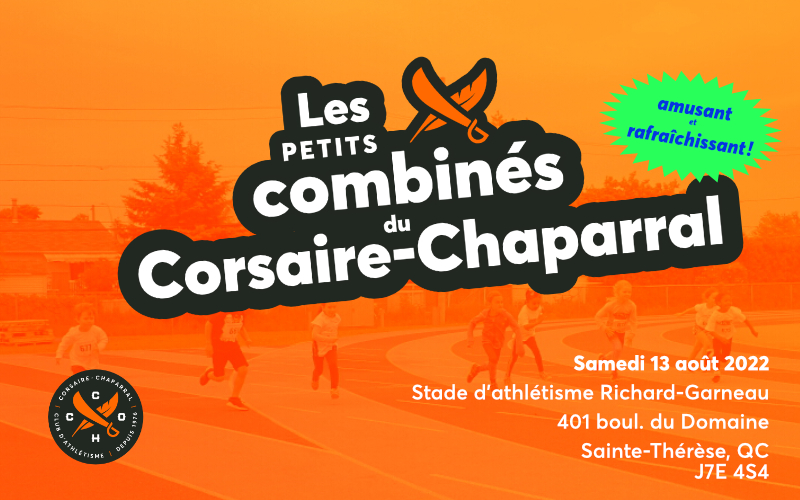
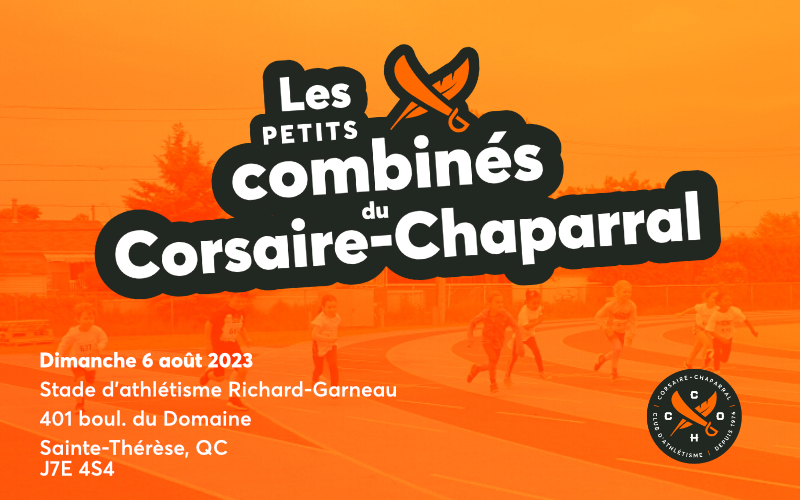
petits combinés 2023: màj (doc invitation venir)

Changed region(s): [[0.0938, 0.09, 0.9688, 0.66], [0.0312, 0.69, 0.9688, 0.96]]

diff --git a/content/competitions/petits-combines-corsaire-chaparral.md b/content/competitions/petits-combines-corsaire-chaparral.md
@@ -1,6 +1,6 @@
 ---
 title: "Les petits combinés Corsaire-Chaparral"
-date: 2022-08-13
+date: 2023-08-06
 images: 
 - /img/banniere-petits-combines.jpg
 
@@ -11,17 +11,16 @@ aliases:
 
 ## Informations générales
 
-- **Date** : samedi 13 août 2022
-- **Responsable de la rencontre** : [Michel Parent](mailto:michelparent2404@gmail.com)
+- **Date** : dimanche 6 août 2023
+- **Responsable de la rencontre** : [Carole Crevier](mailto:caro.cre@outlook.com)
 - **Directrice technique** : Madame [Nathalie Prince](mailto:nathalie.prince1@videotron.ca)
 - **Chronométrage et résultats** : [Louis-Olivier Brassard](mailto:louis@corsaire-chaparral.org)
-- **Bénévoles** : Lina Lalonde, Karine Beauséjour
-- **Communications** : Stéphanie Parent
+- **Bénévoles** : Karine Beauséjour
 - **Secrétariat** : Nancy Boucher
-- [**Document d’invitation**](https://assets.corsaire-chaparral.org/competitions/2022/document-technique-petits-combines-2022.pdf)
-- [**Horaire final**](https://assets.corsaire-chaparral.org/competitions/2022/horaire-petits-combines-2022-vfinal.pdf)
-- [**Liste des athlètes inscrits**](https://assets.corsaire-chaparral.org/competitions/2022/inscriptions-par-epreuve-petits-combines-2022.pdf)
-- [**Résultats en ligne**](https://resultats.corsaire-chaparral.org/meets/petits-combines-2022/)
+- **Document d’invitation** *(à venir)* <!-- [**Document d’invitation**](https://assets.corsaire-chaparral.org/competitions/2022/document-technique-petits-combines-2022.pdf) -->
+<!-- - [**Horaire final**](https://assets.corsaire-chaparral.org/competitions/2023/horaire-petits-combines-2023-vfinal.pdf) -->
+<!-- - [**Liste des athlètes inscrits**](https://assets.corsaire-chaparral.org/competitions/2022/inscriptions-par-epreuve-petits-combines-2022.pdf) -->
+<!-- - [**Résultats en ligne**](https://avs-sport.com/comp_main.php?comp=752) -->
 
 ## Emplacement
 
@@ -32,45 +31,58 @@ Sainte-Thérèse, QC J7E 4S4
 
 ## Épreuves offertes
 
-- **Coccinelle (2015-2016)** – Triathlon  
-  _maximum de 16 filles et 16 garçons_
-- **Colibri (2013-2014)** – Quadrathlon  
-  _maximum de 32 filles et 32 garçons_
-- **Minime (2011-2012)** – Quadrathlon  
-  _maximum de 32 filles et 32 garçons_
-- **Benjamin (2009-2010)** – Pentathlon  
-  _maximum de 40 filles et 40 garçons_
+#### Colibri (2014-2015) – Quadrathlon  
 
+- 80m
+- saut en longueur (zone)
+- lancer du javelot turbo 300g
+- 400m
+
+**Limite**: maximum de 32 filles et 32 garçons
+
+#### Minime (2012-2013) – Quadrathlon  
+
+- 80m
+- saut en longueur (zone)
+- lancer du javelot turbo 400g
+- 400m
+
+**Limite** : maximum de 32 filles et 32 garçons
+
+
+#### Benjamin (2010-2011) – Pentathlon  
+
+- 80m
+- saut en hauteur
+- saut en longueur (planche d’appel)
+- lancer du javelot turbo 400g
+- 600m
+
+**Limite**: maximum de 40 filles et 40 garçons
+
+<!--
 ### Relais
 
 Pour les équipes présentes sur place :
 
 - Minimes : 4x80m navette, mixte
 - Benjamins : 4x100m autour de l’oval, mixte (2 filles, 2 garçons)
-
-<!--
+-->
 
 ## Inscription
 
-Inscription sur le site [AVS-Sport](https://avs-sport.com/main.php) jusqu’au **11 août 2022 à 23h59**.
-Aucune inscription après cette date.
-
-Aucune inscription sur place.
-
--->
+Inscription sur le site [AVS-Sport](https://avs-sport.com/main.php) jusqu’au **1<sup>er</sup> août 2023 à 23h59**.
+Aucune inscription après cette date. Absolument aucune inscription sur place.
 
 ## À propos de l’événement
 
 Le club d’athlétisme Corsaire-Chaparral est fier de présenter la quatrième édition de ses _Petits combinés_ (anciennement le _Petit pentathlon de Nathalie_) dans le cadre du _Circuit estival des jeunes_ de la Fédération québécoise d’athlétisme.
 
-Cette compétition amicale s’adresse aux athlètes de catégorie coccinelle (triathlon), colibri (quadrathlon), minime (quadrathlon) et benjamin (pentathlon).
-
-
-![La Moisson](/img/partenaires/logo-la-moisson.png)
-
-_La Moisson Ste-Thérèse est partenaire de cet événement._
+Cette compétition amicale s’adresse aux athlètes de catégorie colibri (quadrathlon), minime (quadrathlon) et benjamin (pentathlon).
 
 ## Résultats
+
+[Résulats 2022]({{< ref "resultats/2022/petits-combines-coch" >}})
 
 [Résulats 2021]({{< ref "resultats/2021/petit-pentathlon-nathalie-2021" >}})
 
